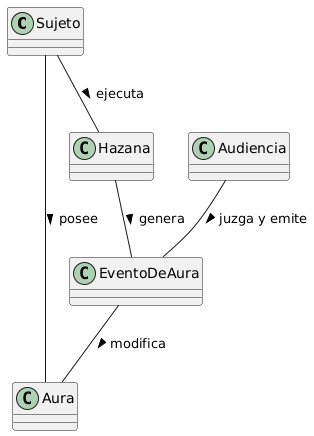
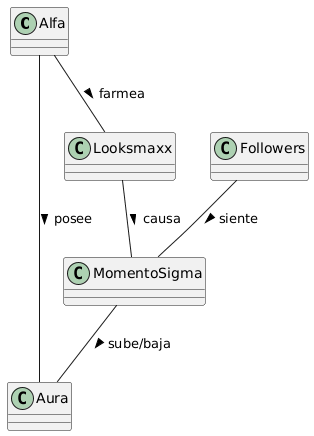
fix: version 2 del aura con terminos acordes al cliente

diff --git a/entregas/melgaresJose/docs/AURA.md b/entregas/melgaresJose/docs/AURA.md
@@ -1,0 +1,23 @@
+# Escenario 2. Farmear Aura
+
+## Esquema
+
+![Esquema ](./img/aura-diagrama.png)
+
+
+## Glosario de Términos (en lenguaje de viejos como yo)
+
+- **Alfa**: Individuo (el protagonista) que ejecuta acciones buscando proyectar dominio, superioridad o coolness extrema frente al resto.
+- **Looksmaxx**: En vez de hazaña. Es una acción, rutina o táctica (como el mewing)llevada al extremo. Es la herramienta principal para farmear.
+- **MomentoSigma**: Instante cumbre de demostración de frialdad, aislamiento voluntario o dominio absoluto (el pico de la hazaña) que altera radicalmente el nivel de aura.
+- **Followers**: Testigos presenciales o digitales (espectadores, simps, comunidad) que presencian la acción, validan la actitud y sienten el impacto del momento
+
+## Supuestos Adoptados
+
+Riesgo de Cringe:
+
+- Farmear aura no es gratis. Si la Audiencia percibe que la hazaña requirió mucho esfuerzo o fue actuada/forzada, el EventoDeAura genera un resultado negativo.
+
+Rol de la Audiencia como ente emisor:
+
+- El aura no existe en el aislamiento. Una hazaña a solas no farmea aura a menos que quede registrada para una Audiencia (digital o física) que emita el veredicto.

diff --git a/entregas/melgaresJose/README.md b/entregas/melgaresJose/README.md
@@ -1,0 +1,3 @@
+# Entrega Reto 001
+
+En esta carpeta se encuentra la entrega del reto 001. Dentro de `uml` se encuentran los diagramas en código y en `docs` se encuentra el documento con la explicación de cada escenario.
